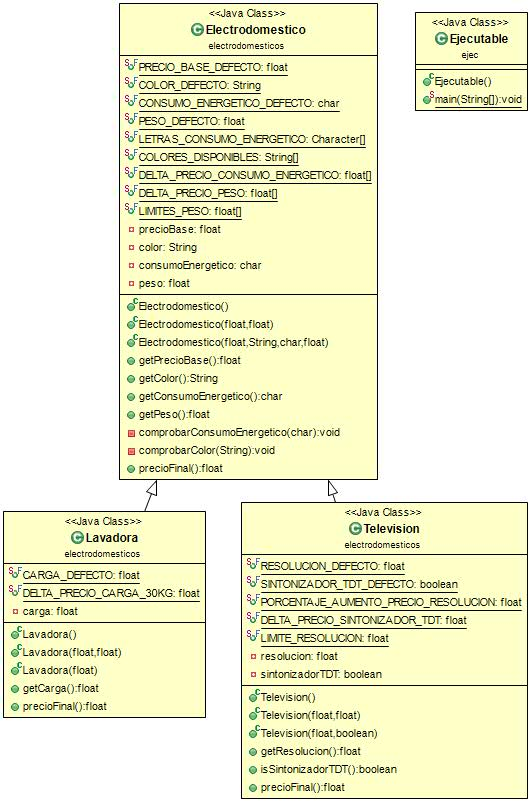
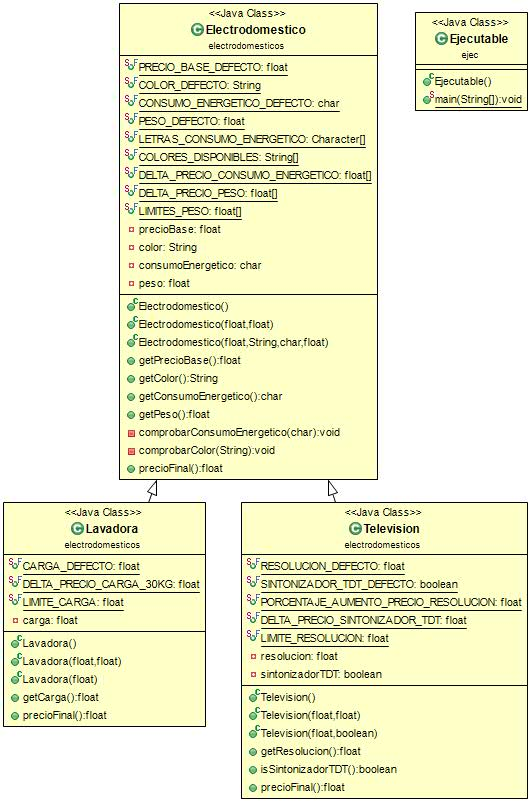
Actualizacion Javadoc, UML y Lavadora

Changed region(s): [[0.0, 0.5923, 0.3917, 0.904]]

diff --git a/Evaluacion2/doc/member-search-index.js b/Evaluacion2/doc/member-search-index.js
@@ -1,1 +1,1 @@
-memberSearchIndex = [{"p":"electrodomesticos","c":"Lavadora","l":"carga"},{"p":"electrodomesticos","c":"Lavadora","l":"CARGA_DEFECTO"},{"p":"electrodomesticos","c":"Electrodomestico","l":"color"},{"p":"electrodomesticos","c":"Electrodomestico","l":"COLOR_DEFECTO"},{"p":"electrodomesticos","c":"Electrodomestico","l":"COLORES_DISPONIBLES"},{"p":"electrodomesticos","c":"Electrodomestico","l":"comprobarColor(String)","url":"comprobarColor(java.lang.String)"},{"p":"electrodomesticos","c":"Electrodomestico","l":"comprobarConsumoEnergetico(char)"},{"p":"electrodomesticos","c":"Electrodomestico","l":"CONSUMO_ENERGETICO_DEFECTO"},{"p":"electrodomesticos","c":"Electrodomestico","l":"consumoEnergetico"},{"p":"electrodomesticos","c":"Lavadora","l":"DELTA_PRECIO_CARGA_30KG"},{"p":"electrodomesticos","c":"Electrodomestico","l":"DELTA_PRECIO_CONSUMO_ENERGETICO"},{"p":"electrodomesticos","c":"Electrodomestico","l":"DELTA_PRECIO_PESO"},{"p":"electrodomesticos","c":"Television","l":"DELTA_PRECIO_SINTONIZADOR_TDT"},{"p":"ejec","c":"PruebasUnitarias","l":"e1"},{"p":"ejec","c":"Ejecutable","l":"Ejecutable()","url":"%3Cinit%3E()"},{"p":"electrodomesticos","c":"Electrodomestico","l":"Electrodomestico()","url":"%3Cinit%3E()"},{"p":"electrodomesticos","c":"Electrodomestico","l":"Electrodomestico(float, float)","url":"%3Cinit%3E(float,float)"},{"p":"electrodomesticos","c":"Electrodomestico","l":"Electrodomestico(float, String, char, float)","url":"%3Cinit%3E(float,java.lang.String,char,float)"},{"p":"electrodomesticos","c":"Lavadora","l":"getCarga()"},{"p":"electrodomesticos","c":"Electrodomestico","l":"getColor()"},{"p":"electrodomesticos","c":"Electrodomestico","l":"getConsumoEnergetico()"},{"p":"electrodomesticos","c":"Electrodomestico","l":"getPeso()"},{"p":"electrodomesticos","c":"Electrodomestico","l":"getPrecioBase()"},{"p":"electrodomesticos","c":"Television","l":"getResolucion()"},{"p":"electrodomesticos","c":"Television","l":"isSintonizadorTDT()"},{"p":"electrodomesticos","c":"Lavadora","l":"Lavadora()","url":"%3Cinit%3E()"},{"p":"electrodomesticos","c":"Lavadora","l":"Lavadora(float)","url":"%3Cinit%3E(float)"},{"p":"electrodomesticos","c":"Lavadora","l":"Lavadora(float, float)","url":"%3Cinit%3E(float,float)"},{"p":"electrodomesticos","c":"Electrodomestico","l":"LETRAS_CONSUMO_ENERGETICO"},{"p":"electrodomesticos","c":"Television","l":"LIMITE_RESOLUCION"},{"p":"electrodomesticos","c":"Electrodomestico","l":"LIMITES_PESO"},{"p":"ejec","c":"Ejecutable","l":"main(String[])","url":"main(java.lang.String[])"},{"p":"electrodomesticos","c":"Electrodomestico","l":"peso"},{"p":"electrodomesticos","c":"Electrodomestico","l":"PESO_DEFECTO"},{"p":"electrodomesticos","c":"Television","l":"PORCENTAJE_AUMENTO_PRECIO_RESOLUCION"},{"p":"electrodomesticos","c":"Electrodomestico","l":"PRECIO_BASE_DEFECTO"},{"p":"electrodomesticos","c":"Electrodomestico","l":"precioBase"},{"p":"electrodomesticos","c":"Electrodomestico","l":"precioFinal()"},{"p":"electrodomesticos","c":"Lavadora","l":"precioFinal()"},{"p":"electrodomesticos","c":"Television","l":"precioFinal()"},{"p":"ejec","c":"PruebasUnitarias","l":"PruebasUnitarias()","url":"%3Cinit%3E()"},{"p":"electrodomesticos","c":"Television","l":"resolucion"},{"p":"electrodomesticos","c":"Television","l":"RESOLUCION_DEFECTO"},{"p":"electrodomesticos","c":"Television","l":"SINTONIZADOR_TDT_DEFECTO"},{"p":"electrodomesticos","c":"Television","l":"sintonizadorTDT"},{"p":"electrodomesticos","c":"Television","l":"Television()","url":"%3Cinit%3E()"},{"p":"electrodomesticos","c":"Television","l":"Television(float, boolean)","url":"%3Cinit%3E(float,boolean)"},{"p":"electrodomesticos","c":"Television","l":"Television(float, float)","url":"%3Cinit%3E(float,float)"},{"p":"ejec","c":"PruebasUnitarias","l":"testComprobarColor()"},{"p":"ejec","c":"PruebasUnitarias","l":"testComprobarConsumoEnergetico()"},{"p":"ejec","c":"PruebasUnitarias","l":"testComprobarPrecioFinalElectrodomestico()"},{"p":"ejec","c":"PruebasUnitarias","l":"testComprobarPrecioFinalLavadora()"},{"p":"ejec","c":"PruebasUnitarias","l":"testComprobarPrecioFinalTelevision()"}]
+memberSearchIndex = [{"p":"electrodomesticos","c":"Lavadora","l":"carga"},{"p":"electrodomesticos","c":"Lavadora","l":"CARGA_DEFECTO"},{"p":"electrodomesticos","c":"Electrodomestico","l":"color"},{"p":"electrodomesticos","c":"Electrodomestico","l":"COLOR_DEFECTO"},{"p":"electrodomesticos","c":"Electrodomestico","l":"COLORES_DISPONIBLES"},{"p":"electrodomesticos","c":"Electrodomestico","l":"comprobarColor(String)","url":"comprobarColor(java.lang.String)"},{"p":"electrodomesticos","c":"Electrodomestico","l":"comprobarConsumoEnergetico(char)"},{"p":"electrodomesticos","c":"Electrodomestico","l":"CONSUMO_ENERGETICO_DEFECTO"},{"p":"electrodomesticos","c":"Electrodomestico","l":"consumoEnergetico"},{"p":"electrodomesticos","c":"Lavadora","l":"DELTA_PRECIO_CARGA_30KG"},{"p":"electrodomesticos","c":"Electrodomestico","l":"DELTA_PRECIO_CONSUMO_ENERGETICO"},{"p":"electrodomesticos","c":"Electrodomestico","l":"DELTA_PRECIO_PESO"},{"p":"electrodomesticos","c":"Television","l":"DELTA_PRECIO_SINTONIZADOR_TDT"},{"p":"ejec","c":"PruebasUnitarias","l":"e1"},{"p":"ejec","c":"Ejecutable","l":"Ejecutable()","url":"%3Cinit%3E()"},{"p":"electrodomesticos","c":"Electrodomestico","l":"Electrodomestico()","url":"%3Cinit%3E()"},{"p":"electrodomesticos","c":"Electrodomestico","l":"Electrodomestico(float, float)","url":"%3Cinit%3E(float,float)"},{"p":"electrodomesticos","c":"Electrodomestico","l":"Electrodomestico(float, String, char, float)","url":"%3Cinit%3E(float,java.lang.String,char,float)"},{"p":"electrodomesticos","c":"Lavadora","l":"getCarga()"},{"p":"electrodomesticos","c":"Electrodomestico","l":"getColor()"},{"p":"electrodomesticos","c":"Electrodomestico","l":"getConsumoEnergetico()"},{"p":"electrodomesticos","c":"Electrodomestico","l":"getPeso()"},{"p":"electrodomesticos","c":"Electrodomestico","l":"getPrecioBase()"},{"p":"electrodomesticos","c":"Television","l":"getResolucion()"},{"p":"electrodomesticos","c":"Television","l":"isSintonizadorTDT()"},{"p":"electrodomesticos","c":"Lavadora","l":"Lavadora()","url":"%3Cinit%3E()"},{"p":"electrodomesticos","c":"Lavadora","l":"Lavadora(float)","url":"%3Cinit%3E(float)"},{"p":"electrodomesticos","c":"Lavadora","l":"Lavadora(float, float)","url":"%3Cinit%3E(float,float)"},{"p":"electrodomesticos","c":"Electrodomestico","l":"LETRAS_CONSUMO_ENERGETICO"},{"p":"electrodomesticos","c":"Lavadora","l":"LIMITE_CARGA"},{"p":"electrodomesticos","c":"Television","l":"LIMITE_RESOLUCION"},{"p":"electrodomesticos","c":"Electrodomestico","l":"LIMITES_PESO"},{"p":"ejec","c":"Ejecutable","l":"main(String[])","url":"main(java.lang.String[])"},{"p":"electrodomesticos","c":"Electrodomestico","l":"peso"},{"p":"electrodomesticos","c":"Electrodomestico","l":"PESO_DEFECTO"},{"p":"electrodomesticos","c":"Television","l":"PORCENTAJE_AUMENTO_PRECIO_RESOLUCION"},{"p":"electrodomesticos","c":"Electrodomestico","l":"PRECIO_BASE_DEFECTO"},{"p":"electrodomesticos","c":"Electrodomestico","l":"precioBase"},{"p":"electrodomesticos","c":"Electrodomestico","l":"precioFinal()"},{"p":"electrodomesticos","c":"Lavadora","l":"precioFinal()"},{"p":"electrodomesticos","c":"Television","l":"precioFinal()"},{"p":"ejec","c":"PruebasUnitarias","l":"PruebasUnitarias()","url":"%3Cinit%3E()"},{"p":"electrodomesticos","c":"Television","l":"resolucion"},{"p":"electrodomesticos","c":"Television","l":"RESOLUCION_DEFECTO"},{"p":"electrodomesticos","c":"Television","l":"SINTONIZADOR_TDT_DEFECTO"},{"p":"electrodomesticos","c":"Television","l":"sintonizadorTDT"},{"p":"electrodomesticos","c":"Television","l":"Television()","url":"%3Cinit%3E()"},{"p":"electrodomesticos","c":"Television","l":"Television(float, boolean)","url":"%3Cinit%3E(float,boolean)"},{"p":"electrodomesticos","c":"Television","l":"Television(float, float)","url":"%3Cinit%3E(float,float)"},{"p":"ejec","c":"PruebasUnitarias","l":"testComprobarColor()"},{"p":"ejec","c":"PruebasUnitarias","l":"testComprobarConsumoEnergetico()"},{"p":"ejec","c":"PruebasUnitarias","l":"testComprobarPrecioFinalElectrodomestico()"},{"p":"ejec","c":"PruebasUnitarias","l":"testComprobarPrecioFinalLavadora()"},{"p":"ejec","c":"PruebasUnitarias","l":"testComprobarPrecioFinalTelevision()"}]

diff --git a/Evaluacion2/doc/electrodomesticos/Lavadora.html b/Evaluacion2/doc/electrodomesticos/Lavadora.html
@@ -2,7 +2,7 @@
 <!-- NewPage -->
 <html lang="es">
 <head>
-<!-- Generated by javadoc (13.0.2) on Fri Feb 28 01:24:42 CLST 2020 -->
+<!-- Generated by javadoc (13.0.2) on Fri Feb 28 01:29:44 CLST 2020 -->
 <title>Lavadora</title>
 <meta http-equiv="Content-Type" content="text/html; charset=utf-8">
 <meta name="dc.created" content="2020-02-28">
@@ -145,6 +145,11 @@ extends <a href="Electrodomestico.html" title="class in electrodomesticos">Elect
 <th class="colSecond" scope="row"><code><span class="memberNameLink"><a href="#DELTA_PRECIO_CARGA_30KG">DELTA_PRECIO_CARGA_30KG</a></span></code></th>
 <td class="colLast">&nbsp;</td>
 </tr>
+<tr class="rowColor">
+<td class="colFirst"><code>static float</code></td>
+<th class="colSecond" scope="row"><code><span class="memberNameLink"><a href="#LIMITE_CARGA">LIMITE_CARGA</a></span></code></th>
+<td class="colLast">&nbsp;</td>
+</tr>
 </tbody>
 </table>
 </div>
@@ -264,6 +269,16 @@ float&nbsp;peso)</code></th>
 <dl>
 <dt><span class="seeLabel">See Also:</span></dt>
 <dd><a href="../constant-values.html#electrodomesticos.Lavadora.DELTA_PRECIO_CARGA_30KG">Constant Field Values</a></dd>
+</dl>
+</section>
+</li>
+<li class="blockList">
+<section class="detail">
+<h3><a id="LIMITE_CARGA">LIMITE_CARGA</a></h3>
+<div class="memberSignature"><span class="modifiers">public static final</span>&nbsp;<span class="returnType">float</span>&nbsp;<span class="memberName">LIMITE_CARGA</span></div>
+<dl>
+<dt><span class="seeLabel">See Also:</span></dt>
+<dd><a href="../constant-values.html#electrodomesticos.Lavadora.LIMITE_CARGA">Constant Field Values</a></dd>
 </dl>
 </section>
 </li>

diff --git a/Evaluacion2/doc/index-files/index-6.html b/Evaluacion2/doc/index-files/index-6.html
@@ -2,7 +2,7 @@
 <!-- NewPage -->
 <html lang="es">
 <head>
-<!-- Generated by javadoc (13.0.2) on Fri Feb 28 01:24:42 CLST 2020 -->
+<!-- Generated by javadoc (13.0.2) on Fri Feb 28 01:29:44 CLST 2020 -->
 <title>L-Index</title>
 <meta http-equiv="Content-Type" content="text/html; charset=utf-8">
 <meta name="dc.created" content="2020-02-28">
@@ -87,6 +87,8 @@ $('.navPadding').css('padding-top', $('.fixedNav').css("height"));
 <dt><span class="memberNameLink"><a href="../electrodomesticos/Lavadora.html#%3Cinit%3E(float,float)">Lavadora(float, float)</a></span> - Constructor for class electrodomesticos.<a href="../electrodomesticos/Lavadora.html" title="class in electrodomesticos">Lavadora</a></dt>
 <dd>&nbsp;</dd>
 <dt><span class="memberNameLink"><a href="../electrodomesticos/Electrodomestico.html#LETRAS_CONSUMO_ENERGETICO">LETRAS_CONSUMO_ENERGETICO</a></span> - Static variable in class electrodomesticos.<a href="../electrodomesticos/Electrodomestico.html" title="class in electrodomesticos">Electrodomestico</a></dt>
+<dd>&nbsp;</dd>
+<dt><span class="memberNameLink"><a href="../electrodomesticos/Lavadora.html#LIMITE_CARGA">LIMITE_CARGA</a></span> - Static variable in class electrodomesticos.<a href="../electrodomesticos/Lavadora.html" title="class in electrodomesticos">Lavadora</a></dt>
 <dd>&nbsp;</dd>
 <dt><span class="memberNameLink"><a href="../electrodomesticos/Television.html#LIMITE_RESOLUCION">LIMITE_RESOLUCION</a></span> - Static variable in class electrodomesticos.<a href="../electrodomesticos/Television.html" title="class in electrodomesticos">Television</a></dt>
 <dd>&nbsp;</dd>

diff --git a/Evaluacion2/doc/constant-values.html b/Evaluacion2/doc/constant-values.html
@@ -2,7 +2,7 @@
 <!-- NewPage -->
 <html lang="es">
 <head>
-<!-- Generated by javadoc (13.0.2) on Fri Feb 28 01:24:42 CLST 2020 -->
+<!-- Generated by javadoc (13.0.2) on Fri Feb 28 01:29:44 CLST 2020 -->
 <title>Constant Field Values</title>
 <meta http-equiv="Content-Type" content="text/html; charset=utf-8">
 <meta name="dc.created" content="2020-02-28">
@@ -150,6 +150,13 @@ $('.navPadding').css('padding-top', $('.fixedNav').css("height"));
 </a><code>public&nbsp;static&nbsp;final&nbsp;float</code></td>
 <th class="colSecond" scope="row"><code><a href="electrodomesticos/Lavadora.html#DELTA_PRECIO_CARGA_30KG">DELTA_PRECIO_CARGA_30KG</a></code></th>
 <td class="colLast"><code>50.0f</code></td>
+</tr>
+<tr class="altColor">
+<td class="colFirst"><a id="electrodomesticos.Lavadora.LIMITE_CARGA">
+<!--   -->
+</a><code>public&nbsp;static&nbsp;final&nbsp;float</code></td>
+<th class="colSecond" scope="row"><code><a href="electrodomesticos/Lavadora.html#LIMITE_CARGA">LIMITE_CARGA</a></code></th>
+<td class="colLast"><code>30.0f</code></td>
 </tr>
 </tbody>
 </table>

diff --git a/Evaluacion2/doc/electrodomesticos/class-use/Electrodomestico.html b/Evaluacion2/doc/electrodomesticos/class-use/Electrodomestico.html
@@ -2,7 +2,7 @@
 <!-- NewPage -->
 <html lang="es">
 <head>
-<!-- Generated by javadoc (13.0.2) on Fri Feb 28 01:24:42 CLST 2020 -->
+<!-- Generated by javadoc (13.0.2) on Fri Feb 28 01:29:44 CLST 2020 -->
 <title>Uses of Class electrodomesticos.Electrodomestico</title>
 <meta http-equiv="Content-Type" content="text/html; charset=utf-8">
 <meta name="dc.created" content="2020-02-28">

diff --git a/Evaluacion2/doc/electrodomesticos/class-use/Television.html b/Evaluacion2/doc/electrodomesticos/class-use/Television.html
@@ -2,7 +2,7 @@
 <!-- NewPage -->
 <html lang="es">
 <head>
-<!-- Generated by javadoc (13.0.2) on Fri Feb 28 01:24:42 CLST 2020 -->
+<!-- Generated by javadoc (13.0.2) on Fri Feb 28 01:29:44 CLST 2020 -->
 <title>Uses of Class electrodomesticos.Television</title>
 <meta http-equiv="Content-Type" content="text/html; charset=utf-8">
 <meta name="dc.created" content="2020-02-28">

diff --git a/Evaluacion2/doc/electrodomesticos/class-use/Lavadora.html b/Evaluacion2/doc/electrodomesticos/class-use/Lavadora.html
@@ -2,7 +2,7 @@
 <!-- NewPage -->
 <html lang="es">
 <head>
-<!-- Generated by javadoc (13.0.2) on Fri Feb 28 01:24:42 CLST 2020 -->
+<!-- Generated by javadoc (13.0.2) on Fri Feb 28 01:29:44 CLST 2020 -->
 <title>Uses of Class electrodomesticos.Lavadora</title>
 <meta http-equiv="Content-Type" content="text/html; charset=utf-8">
 <meta name="dc.created" content="2020-02-28">

diff --git a/Evaluacion2/doc/ejec/class-use/PruebasUnitarias.html b/Evaluacion2/doc/ejec/class-use/PruebasUnitarias.html
@@ -2,7 +2,7 @@
 <!-- NewPage -->
 <html lang="es">
 <head>
-<!-- Generated by javadoc (13.0.2) on Fri Feb 28 01:24:42 CLST 2020 -->
+<!-- Generated by javadoc (13.0.2) on Fri Feb 28 01:29:44 CLST 2020 -->
 <title>Uses of Class ejec.PruebasUnitarias</title>
 <meta http-equiv="Content-Type" content="text/html; charset=utf-8">
 <meta name="dc.created" content="2020-02-28">

diff --git a/Evaluacion2/doc/overview-summary.html b/Evaluacion2/doc/overview-summary.html
@@ -2,7 +2,7 @@
 <!-- NewPage -->
 <html lang="es">
 <head>
-<!-- Generated by javadoc (13.0.2) on Fri Feb 28 01:24:42 CLST 2020 -->
+<!-- Generated by javadoc (13.0.2) on Fri Feb 28 01:29:44 CLST 2020 -->
 <title>Generated Documentation (Untitled)</title>
 <meta http-equiv="Content-Type" content="text/html; charset=utf-8">
 <meta name="dc.created" content="2020-02-28">

diff --git a/Evaluacion2/doc/electrodomesticos/package-tree.html b/Evaluacion2/doc/electrodomesticos/package-tree.html
@@ -2,7 +2,7 @@
 <!-- NewPage -->
 <html lang="es">
 <head>
-<!-- Generated by javadoc (13.0.2) on Fri Feb 28 01:24:42 CLST 2020 -->
+<!-- Generated by javadoc (13.0.2) on Fri Feb 28 01:29:44 CLST 2020 -->
 <title>electrodomesticos Class Hierarchy</title>
 <meta http-equiv="Content-Type" content="text/html; charset=utf-8">
 <meta name="dc.created" content="2020-02-28">

diff --git a/Evaluacion2/doc/electrodomesticos/package-use.html b/Evaluacion2/doc/electrodomesticos/package-use.html
@@ -2,7 +2,7 @@
 <!-- NewPage -->
 <html lang="es">
 <head>
-<!-- Generated by javadoc (13.0.2) on Fri Feb 28 01:24:42 CLST 2020 -->
+<!-- Generated by javadoc (13.0.2) on Fri Feb 28 01:29:44 CLST 2020 -->
 <title>Uses of Package electrodomesticos</title>
 <meta http-equiv="Content-Type" content="text/html; charset=utf-8">
 <meta name="dc.created" content="2020-02-28">

diff --git a/Evaluacion2/doc/ejec/class-use/Ejecutable.html b/Evaluacion2/doc/ejec/class-use/Ejecutable.html
@@ -2,7 +2,7 @@
 <!-- NewPage -->
 <html lang="es">
 <head>
-<!-- Generated by javadoc (13.0.2) on Fri Feb 28 01:24:42 CLST 2020 -->
+<!-- Generated by javadoc (13.0.2) on Fri Feb 28 01:29:44 CLST 2020 -->
 <title>Uses of Class ejec.Ejecutable</title>
 <meta http-equiv="Content-Type" content="text/html; charset=utf-8">
 <meta name="dc.created" content="2020-02-28">
